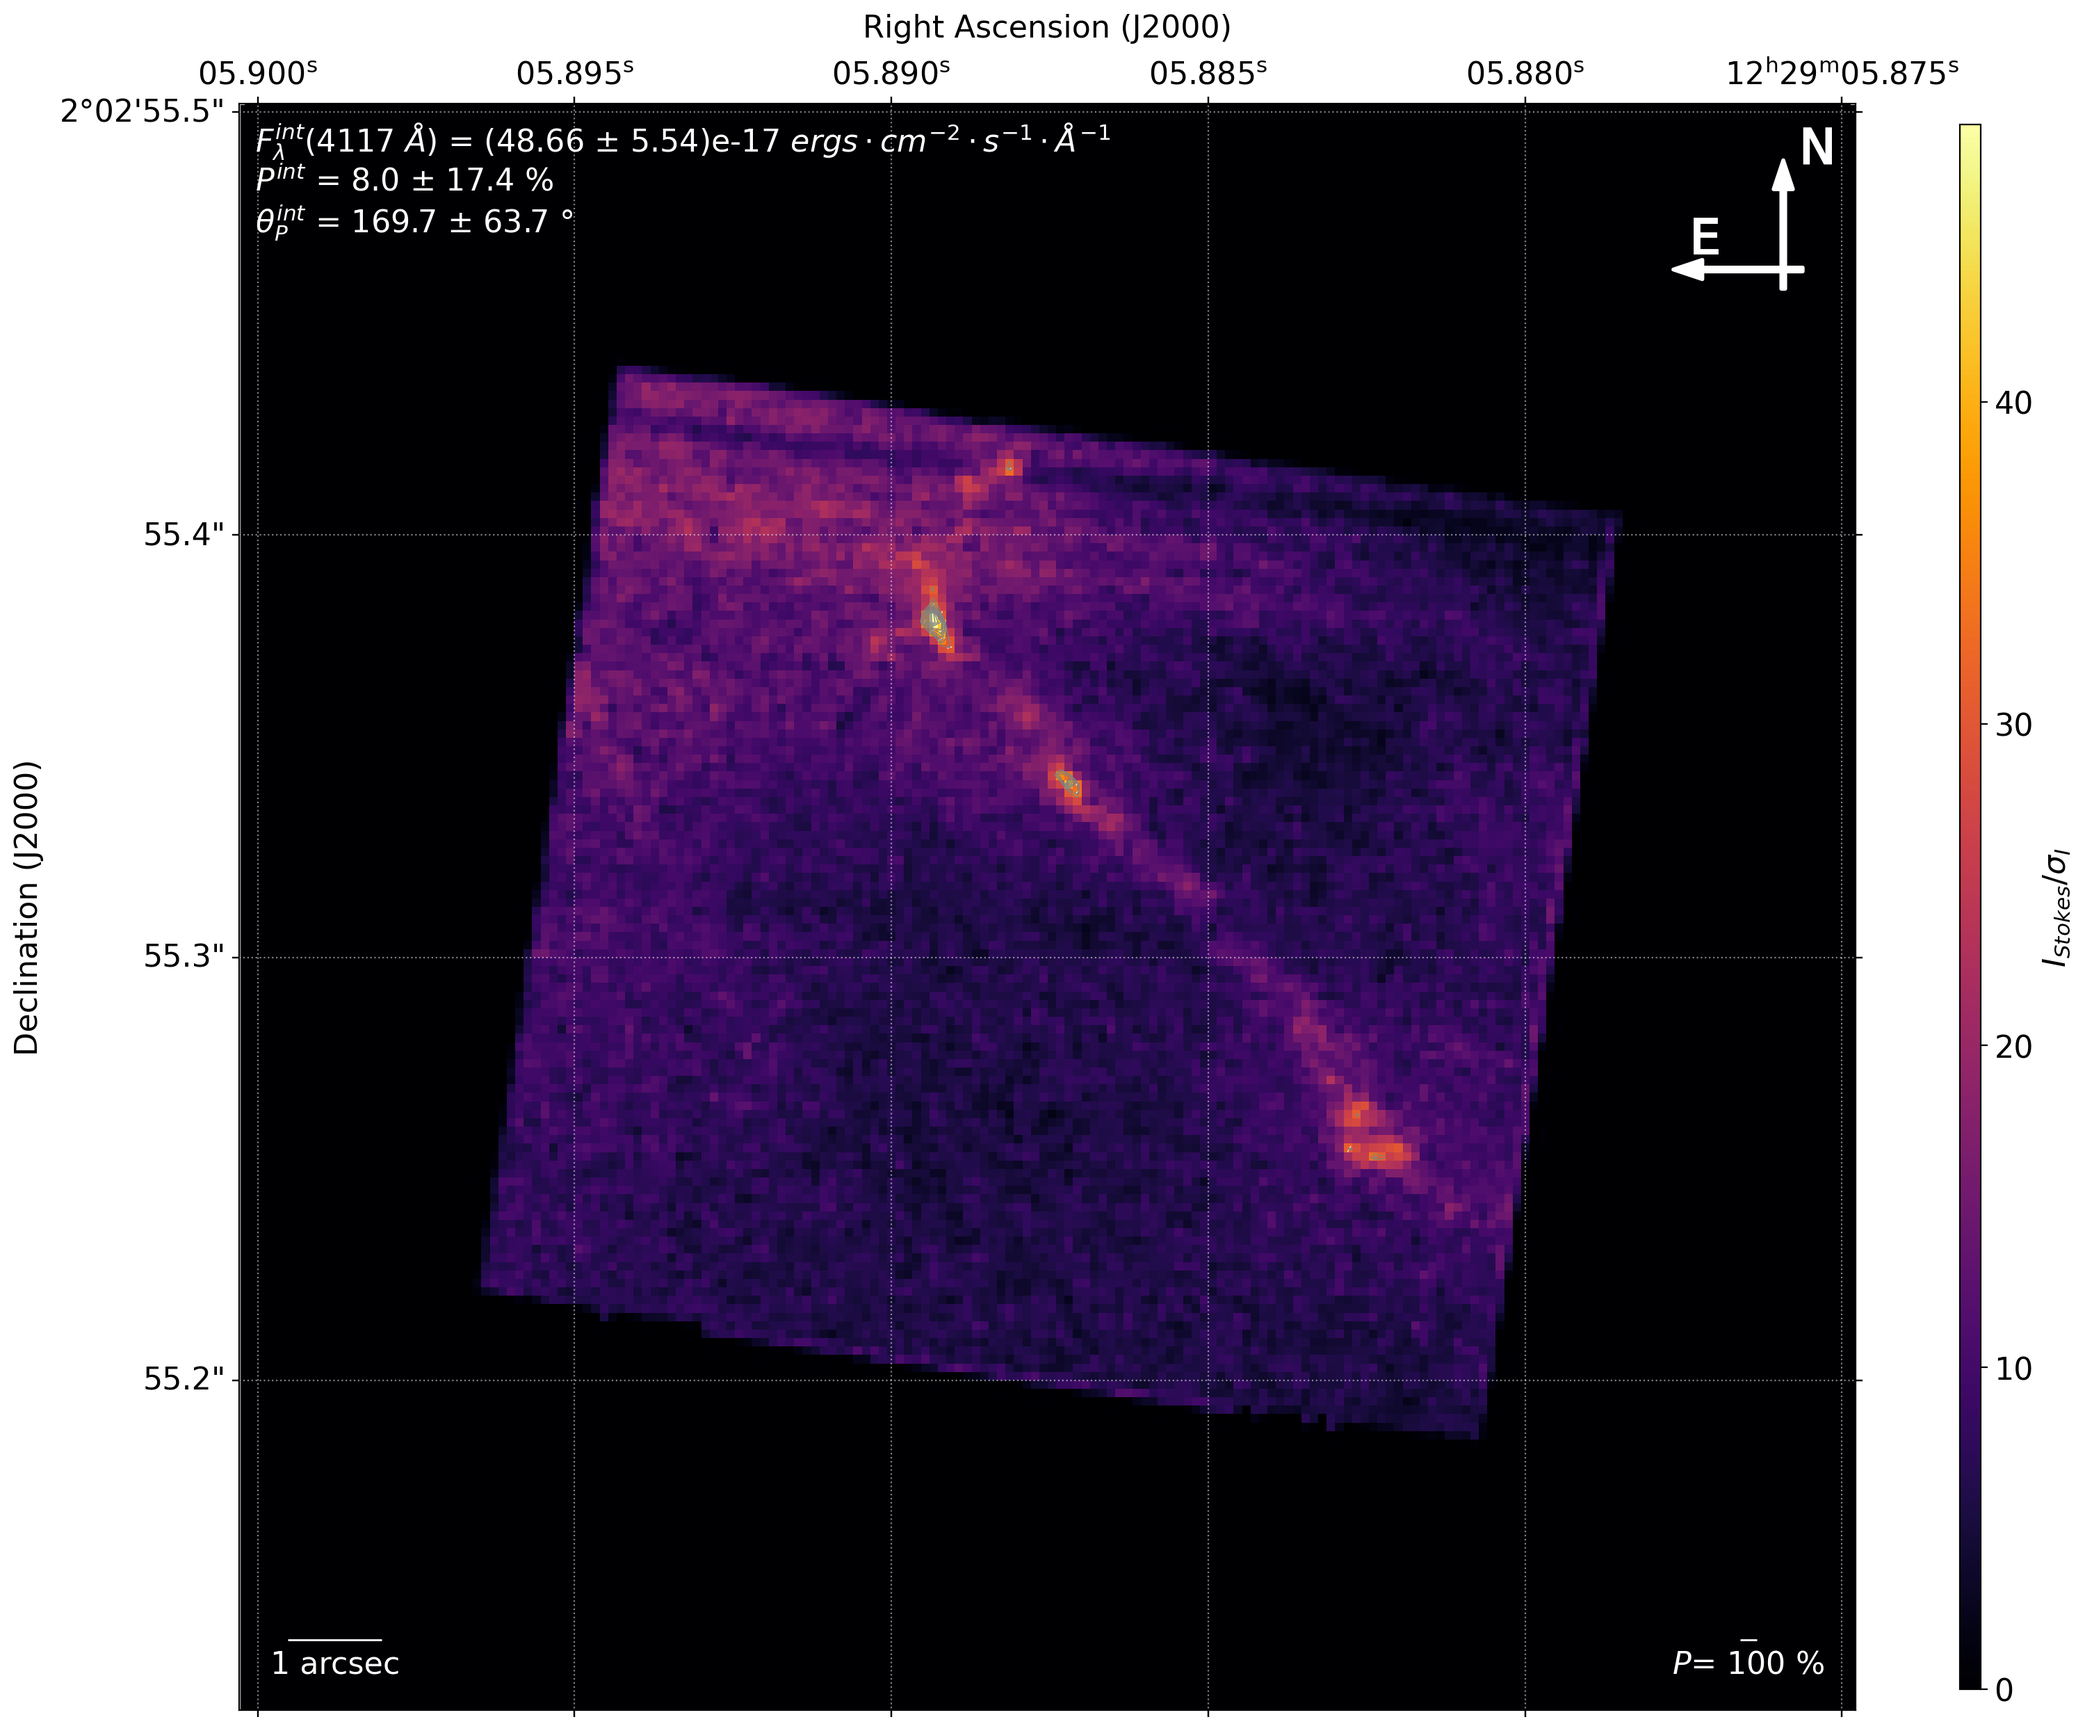
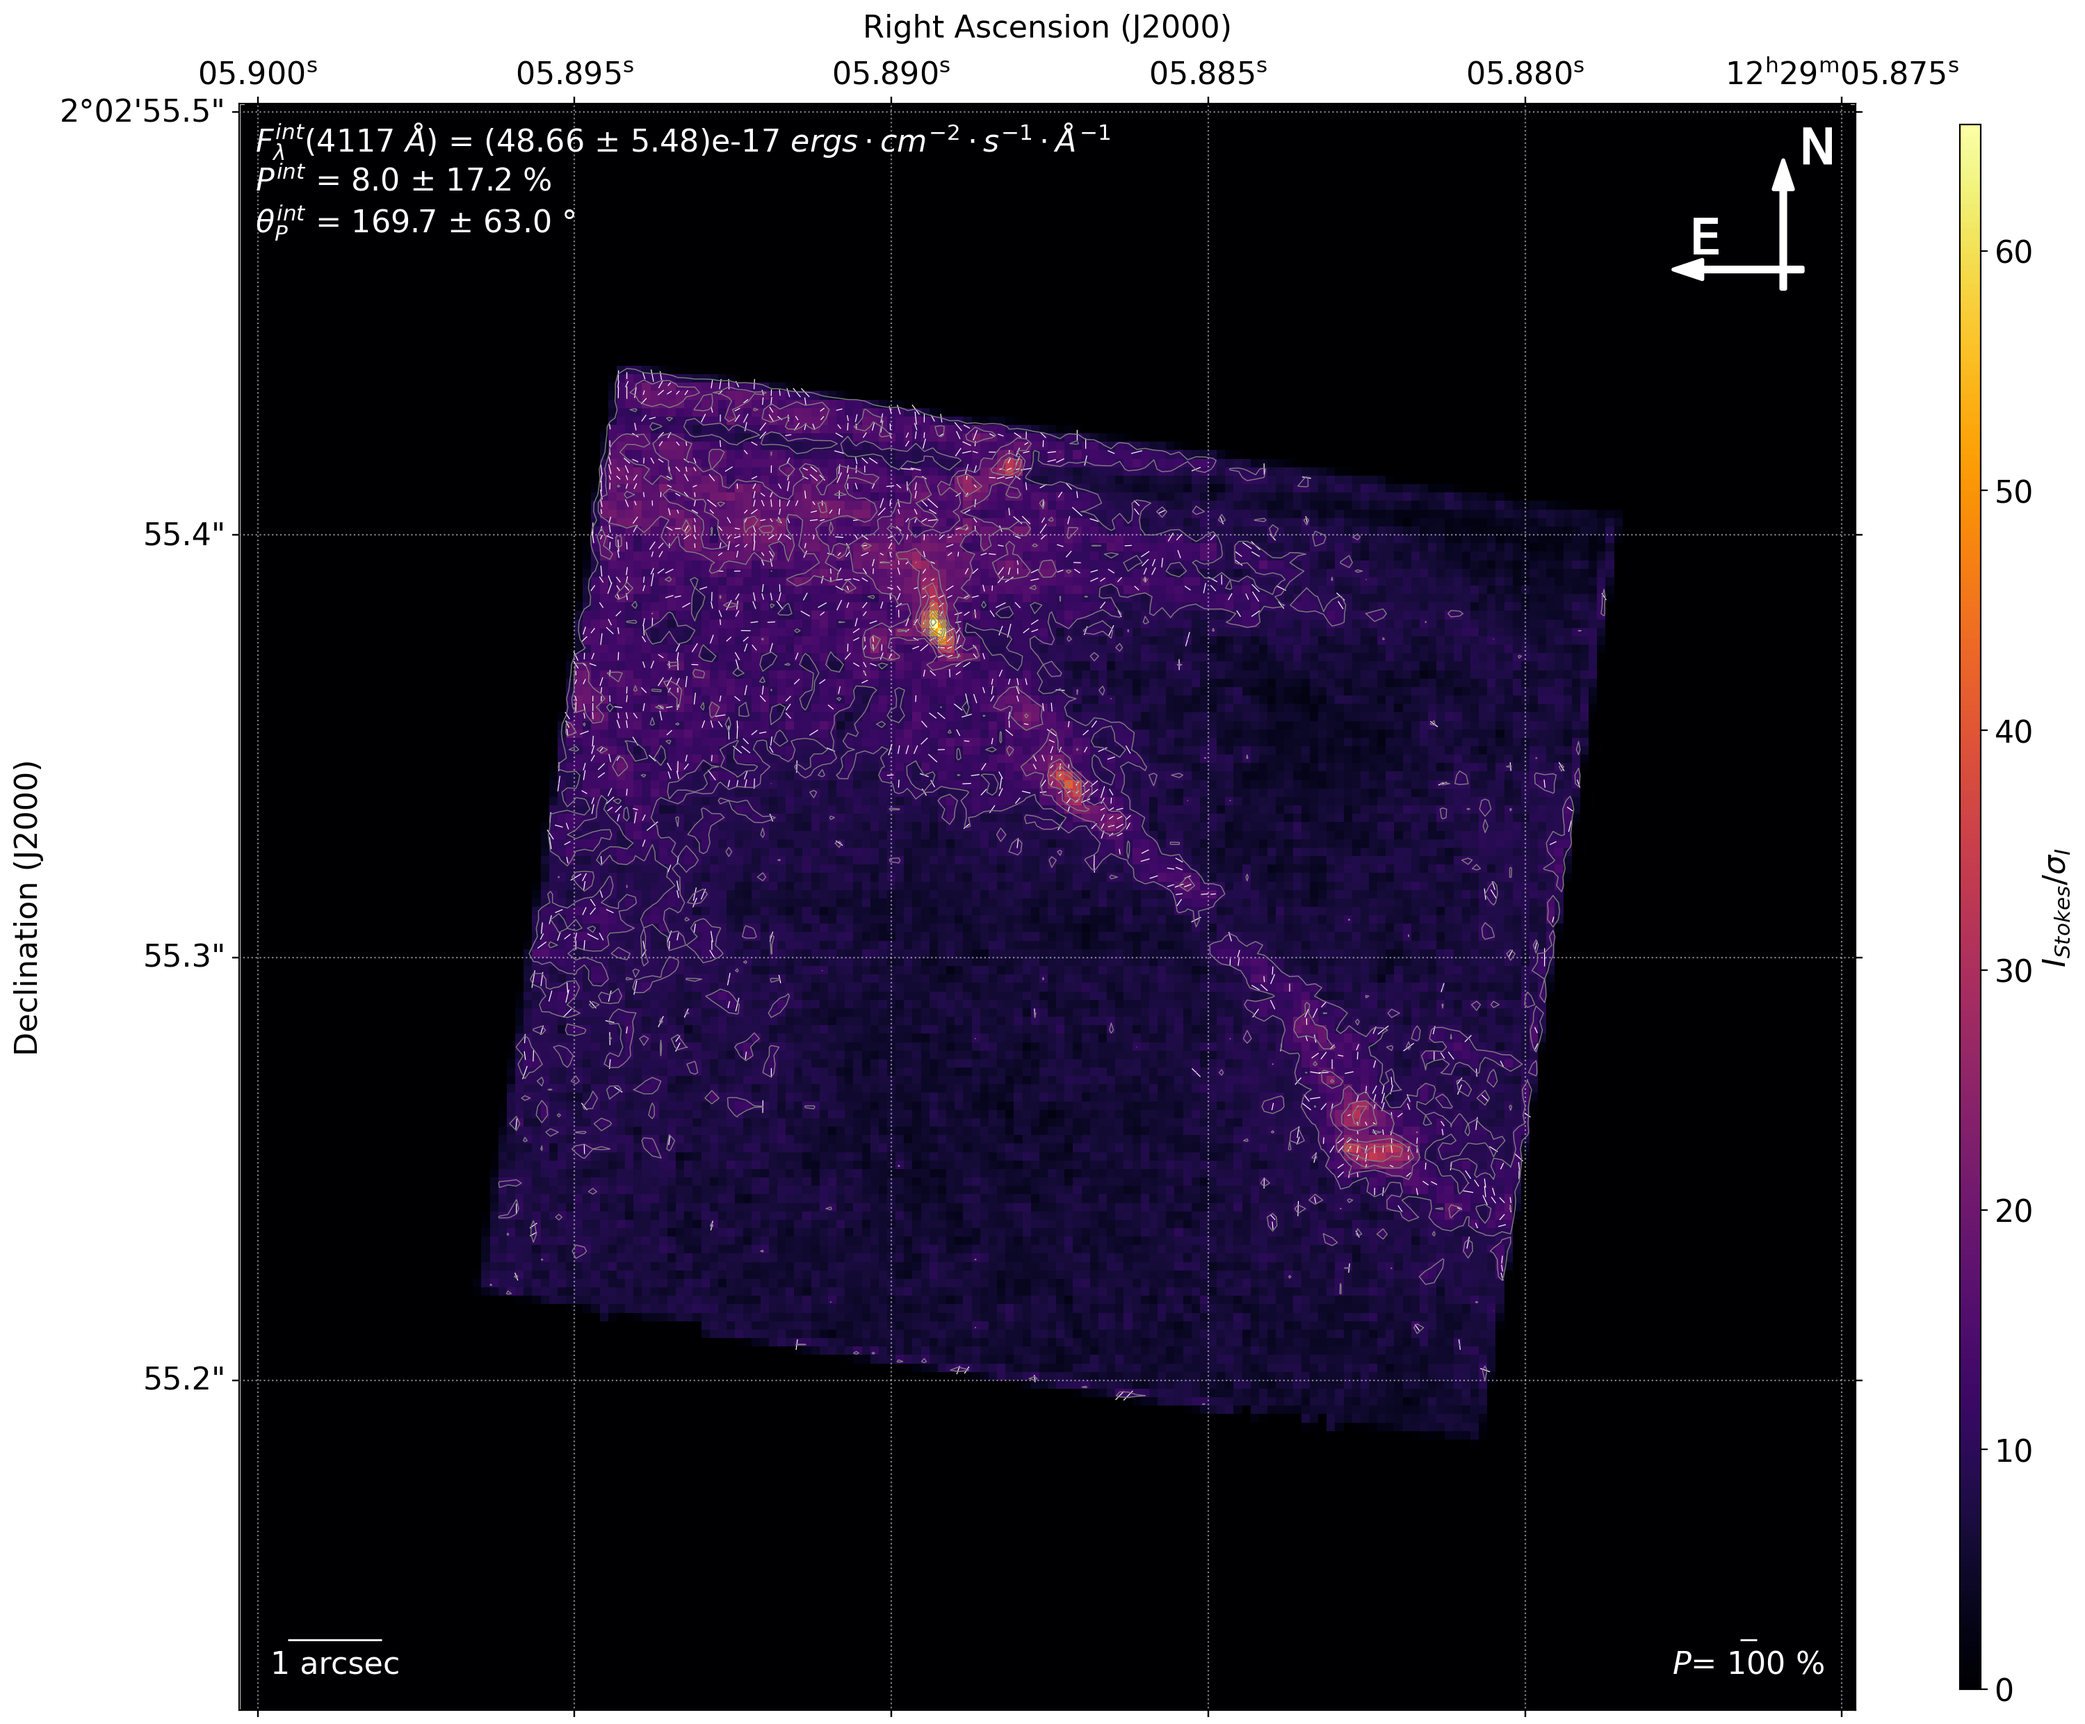
remove axis error on 3C273

diff --git a/src/lib/reduction.py b/src/lib/reduction.py
@@ -847,7 +847,7 @@ def smooth_data(data_array, error_array, data_mask, headers, FWHM=1.,
                 # Compute distance from current pixel
                 dist_rc = np.where(data_mask, fmax, np.sqrt((r-xx)**2+(c-yy)**2))
                 # Catch expected "OverflowWarning" as we overflow values that are not in the image
-                with warnings.catch_warnings(record=True) as w: 
+                with warnings.catch_warnings(record=True) as w:
                     g_rc = np.array([np.exp(-0.5*(dist_rc/stdev)**2),]*data_array.shape[0])
                 # Apply weighted combination
                 smoothed[r,c] = (1.-data_mask[r,c])*np.sum(data_array*weight*g_rc)/np.sum(weight*g_rc)
@@ -868,7 +868,7 @@ def smooth_data(data_array, error_array, data_mask, headers, FWHM=1.,
                 for c in range(image.shape[1]):
                     dist_rc = np.where(data_mask, fmax, np.sqrt((r-xx)**2+(c-yy)**2))
                     # Catch expected "OverflowWarning" as we overflow values that are not in the image
-                    with warnings.catch_warnings(record=True) as w: 
+                    with warnings.catch_warnings(record=True) as w:
                         g_rc = np.exp(-0.5*(dist_rc/stdev)**2)/(2.*np.pi*stdev**2)
                     smoothed[i][r,c] = (1.-data_mask[r,c])*np.sum(image*g_rc)
                     error[i][r,c] = np.sqrt(np.sum(error_array[i]*g_rc**2))
@@ -1172,9 +1172,9 @@ def compute_Stokes(data_array, error_array, data_mask, headers,
         s_U2_axis = (dU_dtheta1**2*sigma_theta[0]**2 + dU_dtheta2**2*sigma_theta[1]**2 + dU_dtheta3**2*sigma_theta[2]**2)
 
         # Add quadratically the uncertainty to the Stokes covariance matrix ## THIS IS WHERE THE PROBLEMATIC UNCERTAINTY IS ADDED TO THE PIPELINE
-        Stokes_cov[0,0] += s_I2_axis
-        Stokes_cov[1,1] += s_Q2_axis
-        Stokes_cov[2,2] += s_U2_axis
+        #Stokes_cov[0,0] += s_I2_axis
+        #Stokes_cov[1,1] += s_Q2_axis
+        #Stokes_cov[2,2] += s_U2_axis
 
 #        s_I_I = np.sqrt(Stokes_cov[0,0])/I_stokes*100.
 #        s_I_axis_I = np.sqrt(s_I2_axis)/I_stokes*100.
@@ -1282,10 +1282,10 @@ def compute_pol(I_stokes, Q_stokes, U_stokes, Stokes_cov, headers):
 
     if (P>1).any():
         print("WARNING : found {0:d} pixels for which P > 1".format(P[P>1.].size))
-        
+
     #Associated errors
     fmax = np.finfo(np.float64).max
-    
+
     s_P = np.ones(I_stokes.shape)*fmax
     s_P[mask] = (1/I_stokes[mask])*np.sqrt((Q_stokes[mask]**2*Stokes_cov[1,1][mask] + U_stokes[mask]**2*Stokes_cov[2,2][mask] + 2.*Q_stokes[mask]*U_stokes[mask]*Stokes_cov[1,2][mask])/(Q_stokes[mask]**2 + U_stokes[mask]**2) + ((Q_stokes[mask]/I_stokes[mask])**2 + (U_stokes[mask]/I_stokes[mask])**2)*Stokes_cov[0,0][mask] - 2.*(Q_stokes[mask]/I_stokes[mask])*Stokes_cov[0,1][mask] - 2.*(U_stokes[mask]/I_stokes[mask])*Stokes_cov[0,2][mask])
     s_P[np.isnan(s_P)] = fmax

diff --git a/src/FOC_reduction.py b/src/FOC_reduction.py
@@ -90,7 +90,7 @@ def main():
     deconvolve = True
     if deconvolve:
         psf = 'gaussian'  #Can be user-defined as well
-        psf_FWHM = 0.10
+        psf_FWHM = 0.15
         psf_scale = 'arcsec'
         psf_shape=(9,9)
         iterations = 10
@@ -102,7 +102,7 @@ def main():
     # Data binning
     rebin = True
     if rebin:
-        pxsize = 0.10
+        pxsize = 0.15
         px_scale = 'arcsec'         #pixel or arcsec
         rebin_operation = 'sum'     #sum or average
     # Alignement
@@ -110,16 +110,16 @@ def main():
     display_data = False
     # Smoothing
     smoothing_function = 'combine'  #gaussian_after, gaussian or combine
-    smoothing_FWHM = 0.10           #If None, no smoothing is done
+    smoothing_FWHM = 0.15           #If None, no smoothing is done
     smoothing_scale = 'arcsec'       #pixel or arcsec
     # Rotation
     rotate_stokes = True           #rotation to North convention can give erroneous results
     rotate_data = False              #rotation to North convention can give erroneous results
     # Polarization map output
     figname = '3C2173_FOC'         #target/intrument name
-    figtype = '_combine_FWHM010_deconvolved'    #additionnal informations
+    figtype = '_combine_FWHM015_deconvolved'    #additionnal informations
     SNRp_cut = 5.    #P measurments with SNR>3
-    SNRi_cut = 30.   #I measurments with SNR>30, which implies an uncertainty in P of 4.7%.
+    SNRi_cut = 20.   #I measurments with SNR>30, which implies an uncertainty in P of 4.7%.
     step_vec = 1    #plot all vectors in the array. if step_vec = 2, then every other vector will be plotted
 
     ##### Pipeline start
